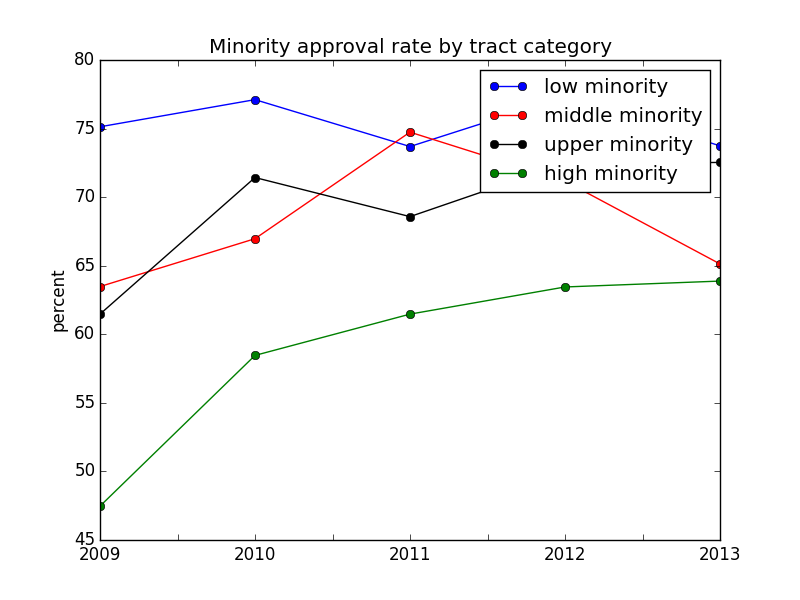
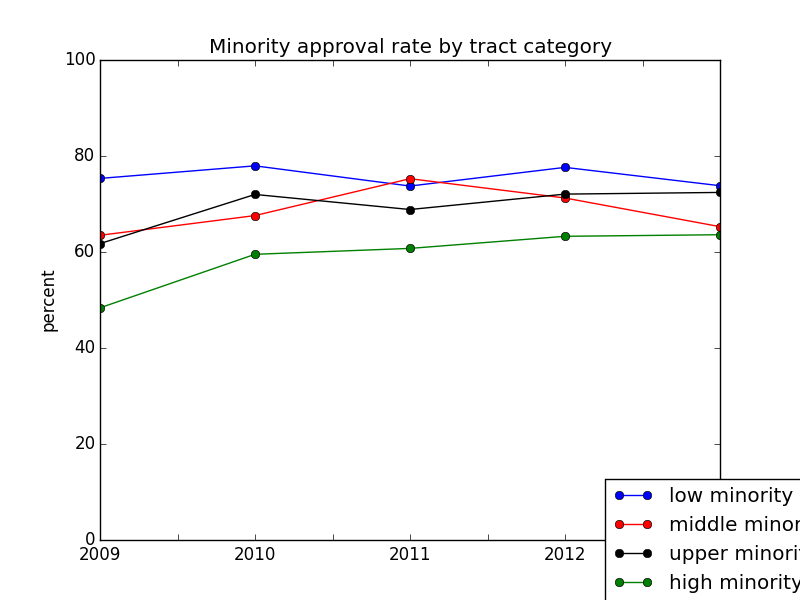
moving legends on graphs

diff --git a/david/CourseProject/controller.py b/david/CourseProject/controller.py
@@ -66,10 +66,10 @@ all_dbs['minority_tract_category'] = tract_cat
 '''
 #get descriptive data from tract categories
 tract_2013.descriptors_2013()
-#tract_2012.descriptors_2012()
-#tract_2011.descriptors_2011()
-#tract_2010.descriptors_2010()
-#tract_2009.descriptors_2009()
+tract_2012.descriptors_2012()
+tract_2011.descriptors_2011()
+tract_2010.descriptors_2010()
+tract_2009.descriptors_2009()
 #open credentials to access database
 #cur = connect.connect()
 
@@ -200,7 +200,7 @@ print non_min_approvals_upper, "upper"
 print non_min_approvals_mid, "mid"
 print non_min_approvals_low, "low"
 #non-minority approval rate
-'''
+
 axes = figure().add_subplot(111)
 axes.set_xticklabels(years2)
 plt.plot(years, non_min_approvals_low, marker = 'o', color = 'b', label= 'low minority')
@@ -275,9 +275,10 @@ plt.plot(years, minority_approvals_upper, marker = 'o', color = 'k', label = 'up
 plt.plot(years, minority_approvals_high, marker = 'o', color = 'g', label = 'high minority')
 plt.title('Minority approval rate by tract category')
 plt.ylabel('percent')
+plt.ylim((0,100))
 plt.legend(bbox_to_anchor=[1,0], loc='center')
 plt.show()
-'''
+
 
 '''
 #select MSA and build geo dictionary
@@ -287,14 +288,14 @@ filename = 'MSA_33340_2013' #name the output file
 cred_list = credentials.split(',') #split credential string
 geo.main(cred_list, MSA) #assemble the JSON object
 geo.write_geo_dict(filename) #write the tracts as a JSON object
-
+'''
 #list of file paths on github.com for data retrieval
 #https://github.com/Kibrael/DAT4-students/blob/master/david/CourseProject/milwaukee2009.csv
 #https://github.com/Kibrael/DAT4-students/blob/master/david/CourseProject/milwaukee2010.csv
 #https://github.com/Kibrael/DAT4-students/blob/master/david/CourseProject/milwaukee2011.csv
 #https://github.com/Kibrael/DAT4-students/blob/master/david/CourseProject/milwaukee2012.csv
 #https://github.com/Kibrael/DAT4-students/blob/master/david/CourseProject/milwaukee2013.csv
-'''
+
 
 
 
